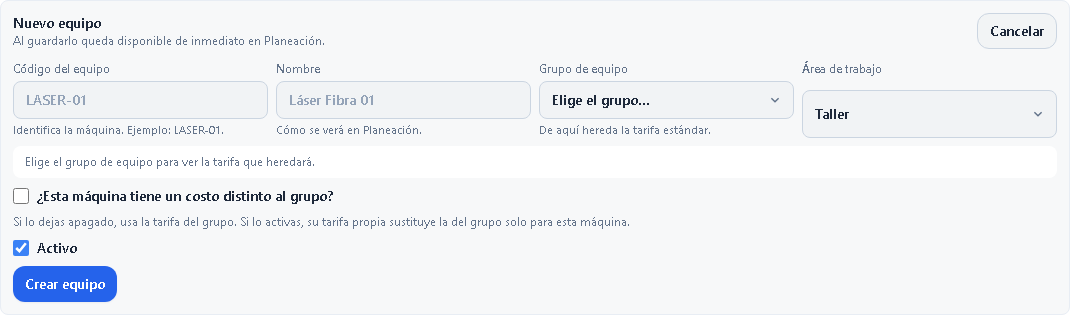
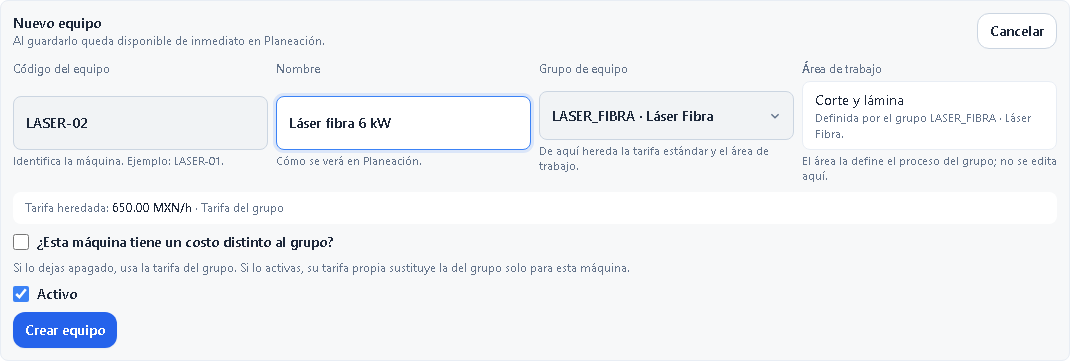
chore(equipos): captura actualizada, texto de area y grupo duplicado desactivado
Cierra los pendientes del incidente CL1: la captura del manual ya muestra el area deducida del grupo, se corrige el texto de ayuda que decia 'usa mas de un area' cuando el area estaba calculada, y se desactiva en produccion el grupo duplicado CORTE_LASER sin procesos ni maquinas. La migracion es idempotente y no actua si el grupo tiene uso.

diff --git a/src/modulos/configuracion/componentes/seccion-tarifas-recursos.tsx b/src/modulos/configuracion/componentes/seccion-tarifas-recursos.tsx
@@ -507,12 +507,14 @@ export function SeccionTarifasRecursos({
                   ))}
                 </Select>
               )}
-              <span className="text-[11px] font-normal">
+              <span className="text-[11px] font-normal" data-testid="alta-guiada-equipo-area-ayuda">
                 {nuevo.grupoEquipoId === ''
                   ? 'Elige el grupo para calcular el área.'
                   : areasEsperadasNuevo.length === 0
                     ? 'El grupo aún no tiene procesos: elige el área donde trabajará la máquina.'
-                    : 'El grupo usa más de un área: elige la de esta máquina.'}
+                    : areaDeducida
+                      ? 'El área la define el proceso del grupo; no se edita aquí.'
+                      : 'El grupo usa más de un área: elige la de esta máquina.'}
               </span>
               {erroresEquipo.area ? (
                 <span id="equipo-area-error" role="alert" className="text-[11px] font-normal text-peligro-texto">

diff --git a/tests/unitarias/configuracion-tarifas-desplegables.test.ts b/tests/unitarias/configuracion-tarifas-desplegables.test.ts
@@ -213,6 +213,9 @@ describe('SeccionTarifasRecursos — alta guiada de un equipo', () => {
     expect(screen.getByTestId('alta-guiada-equipo-area-deducida').textContent).toContain(
       'Corte y lámina',
     );
+    expect(screen.getByTestId('alta-guiada-equipo-area-ayuda').textContent).toContain(
+      'no se edita',
+    );
     expect(screen.queryByTestId('alta-guiada-equipo-area')).toBeNull();
   });
 
